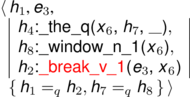
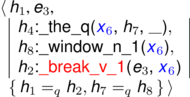
git-svn-id: http://svn.delph-in.net/erg/tags/1214@26004 3df82f5b-d43a-0410-af33-fce91db48ec5

Changed region(s): [[0.7632, 0.433, 0.8684, 0.5876], [0.5, 0.2165, 0.6053, 0.3711], [0.8158, 0.6495, 0.9211, 0.7732]]

diff --git a/www/esd/essence/kim-broke-the-window.tex b/www/esd/essence/kim-broke-the-window.tex
@@ -28,12 +28,12 @@
   \sep{\sh{2}}{\color{red}\spred{\_break\_v\_cause\slnkc{4}{9}}}{%
     \srole{ARG0}{\svar{e}{3}{\svp{SF}{prop}, \svp{TENSE}{past}, \svp{MOOD}{indicative}, \svp{PROG}{-}, \svp{PERF}{-}}},
     \srole{ARG1}{\svar{x}{6}{}},
-    \srole{ARG2}{\svar{x}{9}{\svp{PERS}{3}, \svp{NUM}{sg}, \svp{IND}{+}}}},\\
+    \srole{ARG2}{\color{blue}\svar{x}{9}{\svp{PERS}{3}, \svp{NUM}{sg}, \svp{IND}{+}}}},\\
   \sep{\sh{10}}{\spred{\_the\_q\slnkc{10}{13}}}{%
-    \srole{ARG0}{\svar{x}{9}{}},
+    \srole{ARG0}{\color{blue}\svar{x}{9}{}},
     \srole{RSTR}{\svar{h}{12}{}},
     \srole{BODY}{}},\\
   \sep{\sh{13}}{\spred{\_window\_n\_1\slnkc{14}{21}}}{%
-    \srole{ARG0}{\svar{x}{9}{}}}}
+    \srole{ARG0}{\color{blue}\svar{x}{9}{}}}}
   {\sqeq{1}{2}, \sqeq{5}{8}, \sqeq{12}{13}}
 \end{document}

diff --git a/www/esd/essence/the-window-broke.tex b/www/esd/essence/the-window-broke.tex
@@ -19,14 +19,14 @@
 
 \siblock{\sh{1}}{\svar{e}{3}{}}{%
   \sep{\sh{4}}{\spred{\_the\_q\slnkc{0}{3}}}{%
-    \srole{ARG0}{\svar{x}{6}{\svp{PERS}{3}, \svp{NUM}{sg}, \svp{IND}{+}}},
+    \srole{ARG0}{\color{blue}\svar{x}{6}{\svp{PERS}{3}, \svp{NUM}{sg}, \svp{IND}{+}}},
     \srole{RSTR}{\svar{h}{7}{}},
     \srole{BODY}{}},\\
   \sep{\sh{8}}{\spred{\_window\_n\_1\slnkc{4}{10}}}{%
-    \srole{ARG0}{\svar{x}{6}{}}},\\
+    \srole{ARG0}{\color{blue}\svar{x}{6}{}}},\\
   \sep{\sh{2}}{\color{red}\spred{\_break\_v\_1\slnkc{11}{17}}}{%
     \srole{ARG0}{\svar{e}{3}{\svp{SF}{prop}, \svp{TENSE}{past}, \svp{MOOD}{indicative}, \svp{PROG}{-}, \svp{PERF}{-}}},
-    \srole{ARG1}{\svar{x}{6}{}}}}
+    \srole{ARG1}{\color{blue}\svar{x}{6}{}}}}
   {\sqeq{1}{2}, \sqeq{7}{8}}
 
 \end{document}
